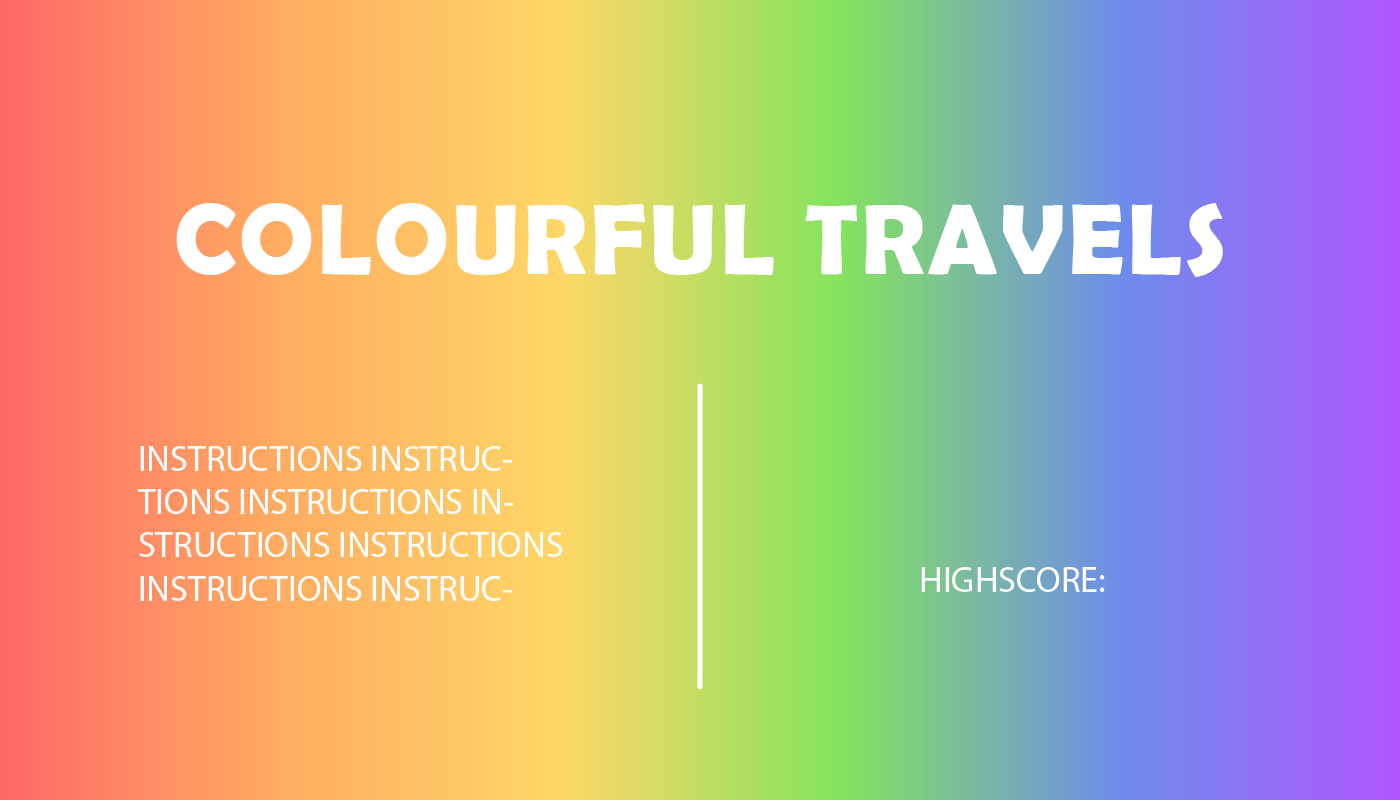
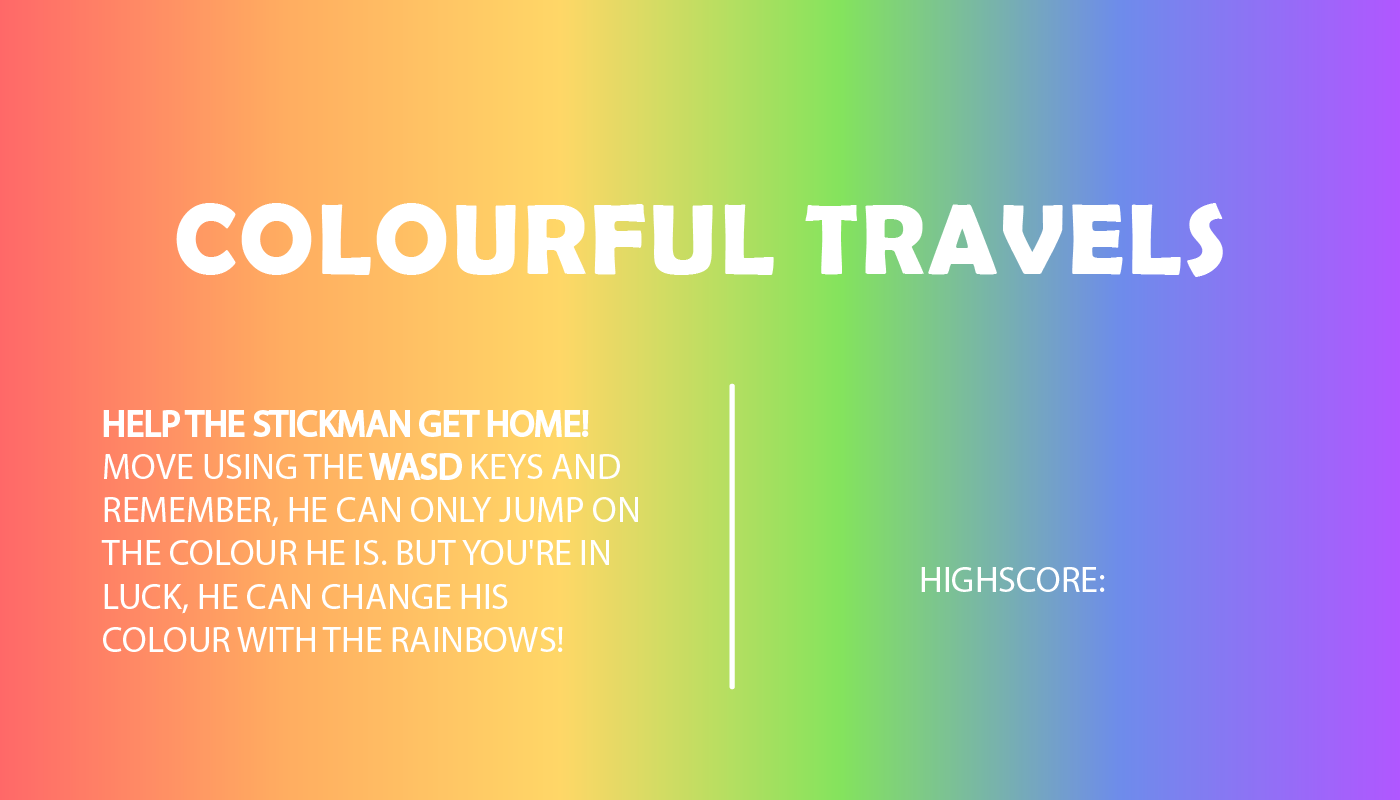
Buttons added and working

Changed region(s): [[0.0614, 0.5, 0.4607, 0.8125], [0.4914, 0.4688, 0.5221, 0.875]]

diff --git a/src/ofApp.cpp b/src/ofApp.cpp
@@ -15,16 +15,14 @@ void ofApp::setup()
 	userInput.setButtons(buttons);
     
 	// Setting default variable values
-	currentState = GAME_STATES::MAIN_MENU;
+	currentState = GAME_STATES::FINISHED_GAME;
 	highscore = 0;
 	won = false;
 
 	currentJump.initialize();
 
 	// Ground
-	firstPlatform = new Platform();
-	firstPlatform->setUp(0, WINDOW_HEIGHT - PLATFORM_HEIGHT, PLATFORM_HEIGHT, WINDOW_WIDTH, &GROUND_IMG);
-	groundLevel = firstPlatform;
+	firstPlatform = NULL;
 
 	numPowerUps = 0;
 	currentPowerUp = -1;
@@ -69,7 +67,7 @@ void ofApp::draw()
 			return;
 
 		case GAME_STATES::PAUSE:
-			renderer.displayPausedMenu();
+			renderer.displayPausedMenu(buttons[BUTTONS::RESUME_BUTTON], buttons[BUTTONS::RESTART_BUTTON], buttons[BUTTONS::MAIN_MENU_BUTTON]);
 			return;
 
 		case GAME_STATES::MAIN_MENU:
@@ -77,7 +75,7 @@ void ofApp::draw()
 			return;
 
 		case GAME_STATES::FINISHED_GAME:
-			renderer.displayEndGame();
+			renderer.displayEndGame(buttons[BUTTONS::MAIN_MENU_BUTTON], buttons[BUTTONS::PLAY_AGAIN_BUTTON], won, gamePlayer.getScore());
 			return;
 	}
 }
@@ -113,6 +111,21 @@ void ofApp::buttonSetUp()
 {
 	// Play button
 	buttons[BUTTONS::PLAY_BUTTON].setUp(850, 469, 69, 363, &PLAY_BUTTON_IMG);
+
+	// Pause button
+	buttons[BUTTONS::PAUSE_BUTTON].setUp(1285, 30, 69, 81, &PAUSE_BUTTON_IMG);
+
+	// Resume button
+	buttons[BUTTONS::RESUME_BUTTON].setUp(519, 173, 69, 363, &RESUME_BUTTON_IMG);
+
+	// Restart button
+	buttons[BUTTONS::RESTART_BUTTON].setUp(519, 383, 69, 363, &RESTART_BUTTON_IMG);
+
+	// Main menu button
+	buttons[BUTTONS::MAIN_MENU_BUTTON].setUp(519, 593, 69, 363, &MAIN_MENU_BUTTON_IMG);
+
+	// Play again button
+	buttons[BUTTONS::PLAY_AGAIN_BUTTON].setUp(519, 496, 69, 363, &PLAY_AGAIN_BUTTON_IMG);
 }
 
 // Generates player information, platforms, power ups, and timer for a game round
@@ -121,7 +134,16 @@ void ofApp::generateGame()
 {
 	gamePlayer.setUp(PLAYER_STARTING_X, PLAYER_STARTING_Y, PLAYER_HEIGHT, PLAYER_WIDTH, &PLAYER_IMG);
 
+	actions.initialize();
+
+	won = false;
+
 	//timer.setUp();
+
+	// Generating ground
+	firstPlatform = new Platform();
+	firstPlatform->setUp(0, WINDOW_HEIGHT - PLATFORM_HEIGHT, PLATFORM_HEIGHT, WINDOW_WIDTH, &GROUND_IMG);
+	groundLevel = firstPlatform;
 
 	generateWinningPath();
 
@@ -276,6 +298,8 @@ int ofApp::randomColour()
 void ofApp::destroyPlatforms()
 {
 	Platform* p = firstPlatform;
+	firstPlatform = NULL;
+
 	Platform* temp;
 
 	while (p != NULL)

diff --git a/src/Display.h b/src/Display.h
@@ -7,8 +7,9 @@ class Display
 	private:
 		ofImage gameBackground = ofImage("gameBackground.png");
 		ofImage mainMenuBackground = ofImage("mainMenuBackground.png");
-		ofImage pausedMenuBackground = ofImage("");
-		ofImage endGameBackground = ofImage("");
+		ofImage pausedMenuBackground = ofImage("pausedBackground.png");
+		ofImage wonBackground = ofImage("wonBackground.png");
+		ofImage lostBackground = ofImage("lostBackground.png");
 		
 		// Private functions
 		void displayGameObject(GameObject toDisplay);
@@ -20,6 +21,6 @@ class Display
 		// Other Functions
 		void displayCanvasView(Player player, Platform* firstPlatform, /*PowerUp fruit[],*/ int numPowerUps, /*Clock timer,*/ GameObject pauseButton);
 		void displayMainMenu(GameObject playButton, int highscore);
-		void displayPausedMenu();
-		void displayEndGame();
+		void displayPausedMenu(GameObject resumeButton, GameObject restartButton, GameObject mainMenuButton);
+		void displayEndGame(GameObject mainMenuButton, GameObject playAgainButton, bool won, int score);
 };

diff --git a/src/ofApp.h b/src/ofApp.h
@@ -38,11 +38,11 @@ class ofApp : public ofBaseApp
 		ofImage GROUND_IMG = ofImage("ground.png");
 		ofImage PLAYER_IMG = ofImage("greenLoop.png");	
 		ofImage PLAY_BUTTON_IMG = ofImage("playButton.png");
-		ofImage PAUSE_BUTTON_IMG = ofImage("");
-		ofImage RESTART_BUTTON_IMG = ofImage("");
-		ofImage MAIN_MENU_BUTTON_IMG = ofImage("");
-		ofImage PLAY_AGAIN_BUTTON_IMG = ofImage("");
-		ofImage RESUME_BUTTON_IMG = ofImage("");
+		ofImage PAUSE_BUTTON_IMG = ofImage("pauseButton.png");
+		ofImage RESTART_BUTTON_IMG = ofImage("restartButton.png");
+		ofImage MAIN_MENU_BUTTON_IMG = ofImage("mainMenuButton.png");
+		ofImage PLAY_AGAIN_BUTTON_IMG = ofImage("playAgainButton.png");
+		ofImage RESUME_BUTTON_IMG = ofImage("resumeButton.png");
 
 		// Program variables
 		int currentState;						// Current state of game (takes a value of GAME_STATES)

diff --git a/src/Input.cpp b/src/Input.cpp
@@ -115,6 +115,10 @@ int Input::mousePress(int x, int y, int button, int gameState)
 			{
 				return GAME_STATES::NEW_GAME;
 			}
+			else if (checkButtonPress(buttons[BUTTONS::MAIN_MENU_BUTTON], x, y))
+			{
+				return GAME_STATES::MAIN_MENU;
+			}
 			else
 			{
 				return gameState;

diff --git a/src/Player.cpp b/src/Player.cpp
@@ -13,6 +13,11 @@ Player::Player(){
     
 }
 
+int Player::getScore()
+{
+    return 0;
+}
+
 void Player::playerMovement(PlayerAction* action)
 {
     if (action->right)  // right movement
